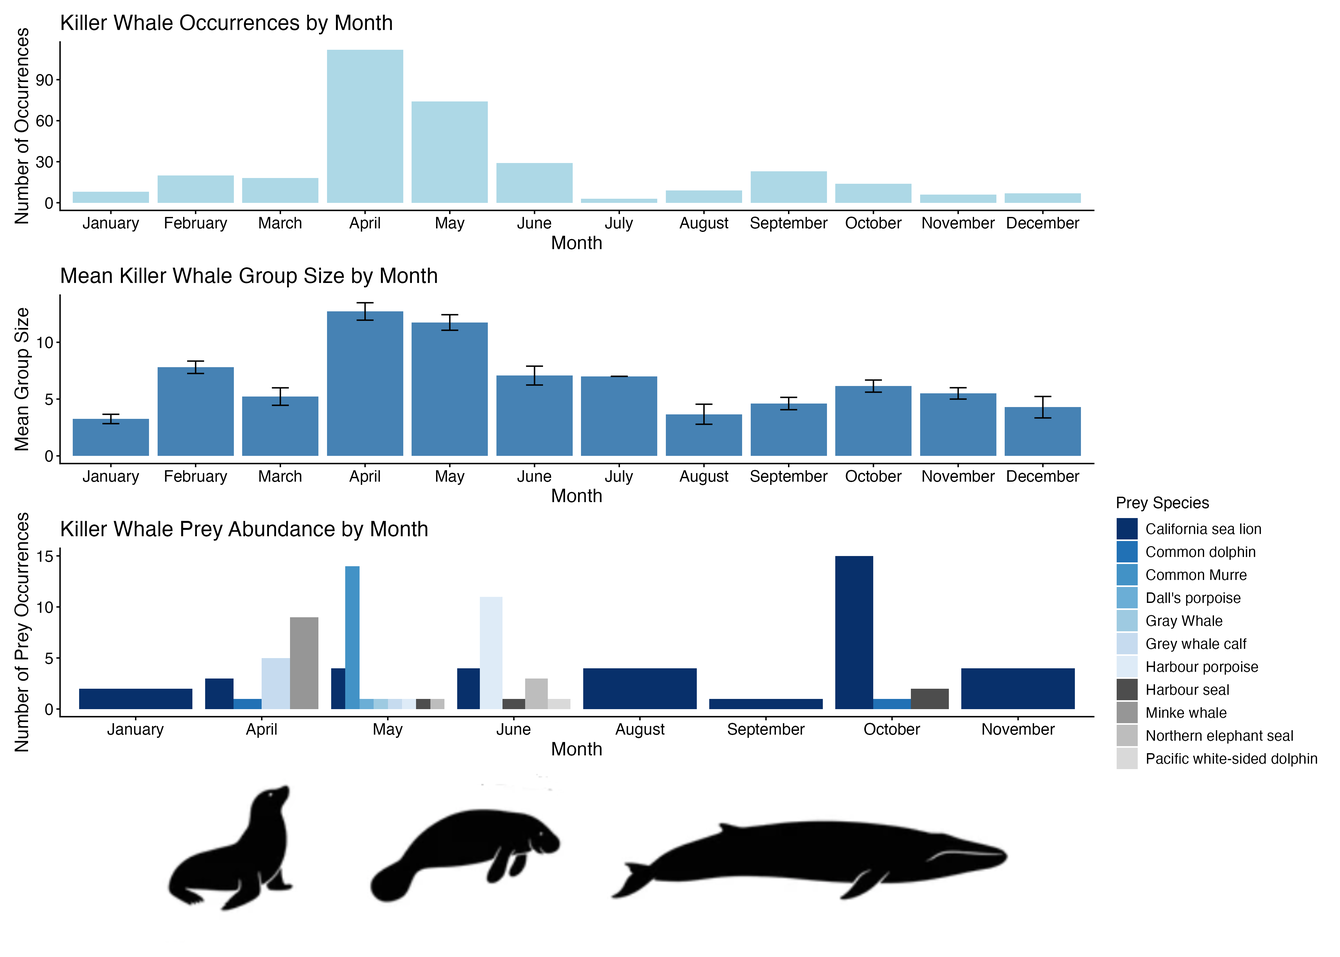
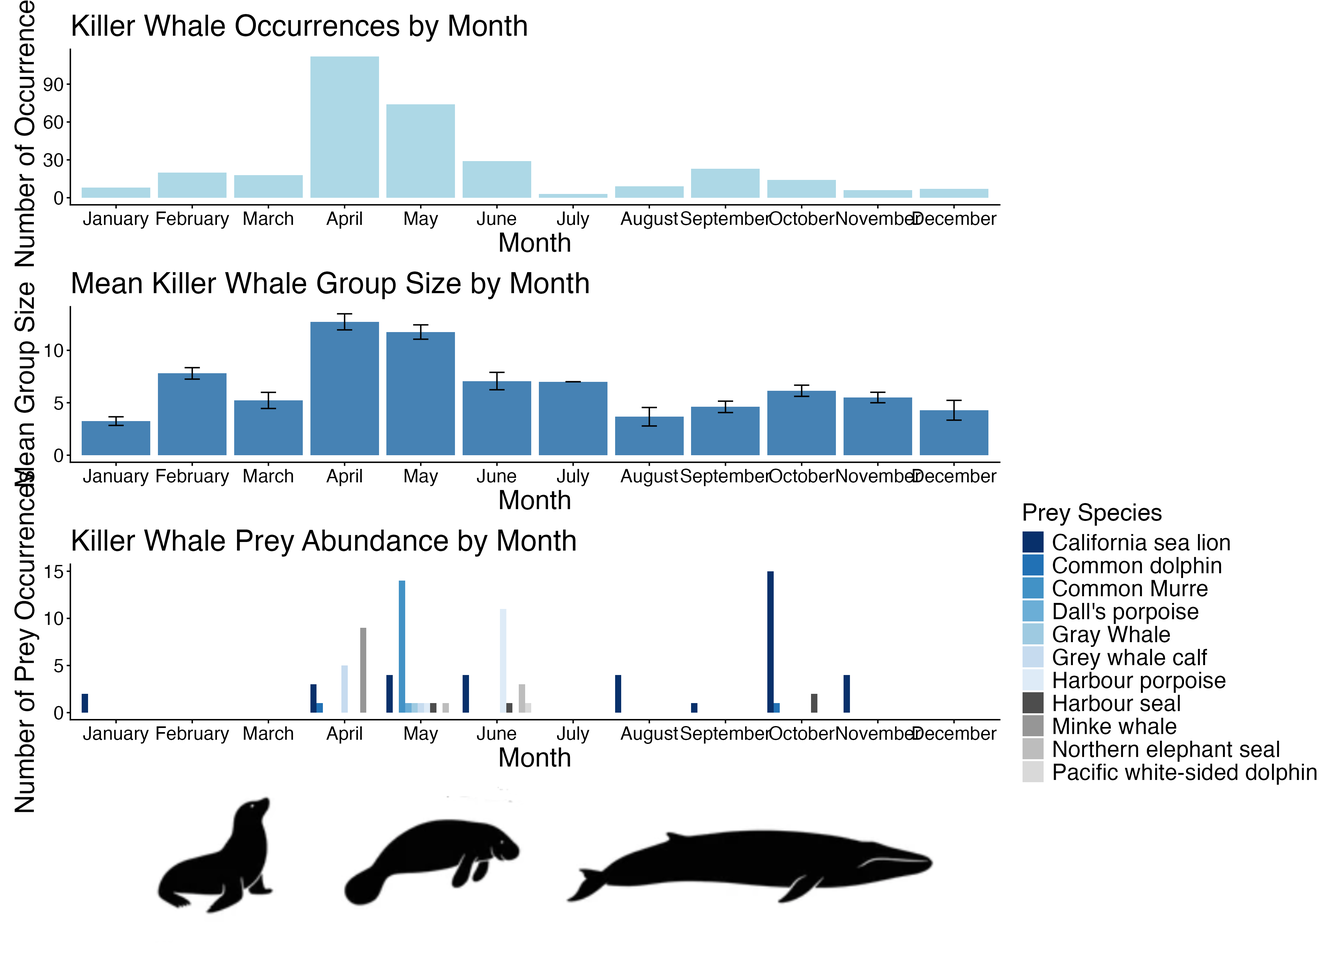
Fixed plots final output to look correct and not squished.

diff --git a/code/WS3.html b/code/WS3.html
@@ -196,17 +196,16 @@ $ Season     &lt;chr&gt; "Spring", "Spring", "Spring", "Spring", "Spring", "Spri
 </div>
 </div>
 <div class="cell">
-<div class="code-copy-outer-scaffold"><div class="sourceCode cell-code" id="cb13"><pre class="sourceCode r code-with-copy"><code class="sourceCode r"><span id="cb13-1"><a href="#cb13-1" aria-hidden="true" tabindex="-1"></a><span class="co">#add image to qmd</span></span>
-<span id="cb13-2"><a href="#cb13-2" aria-hidden="true" tabindex="-1"></a><span class="co">#| label: fig-original</span></span>
-<span id="cb13-3"><a href="#cb13-3" aria-hidden="true" tabindex="-1"></a><span class="co">#| fig-cap: "Original graph from the source study."</span></span>
-<span id="cb13-4"><a href="#cb13-4" aria-hidden="true" tabindex="-1"></a></span>
-<span id="cb13-5"><a href="#cb13-5" aria-hidden="true" tabindex="-1"></a>knitr<span class="sc">::</span><span class="fu">include_graphics</span>(</span>
-<span id="cb13-6"><a href="#cb13-6" aria-hidden="true" tabindex="-1"></a>  here<span class="sc">::</span><span class="fu">here</span>(<span class="st">"outputs"</span>, <span class="st">"figures"</span>, <span class="st">"Graph_From_Source.PNG"</span>)</span>
-<span id="cb13-7"><a href="#cb13-7" aria-hidden="true" tabindex="-1"></a>)</span></code></pre></div><button title="Copy to Clipboard" class="code-copy-button"><i class="bi"></i></button></div>
+<div class="code-copy-outer-scaffold"><div class="sourceCode cell-code" id="cb13"><pre class="sourceCode r code-with-copy"><code class="sourceCode r"><span id="cb13-1"><a href="#cb13-1" aria-hidden="true" tabindex="-1"></a>knitr<span class="sc">::</span><span class="fu">include_graphics</span>(<span class="st">"/Users/jess/Desktop/MB5370 - Techniques/Module2_info/R4MarineScience/code/Graph_From_Source.PNG"</span>)</span></code></pre></div><button title="Copy to Clipboard" class="code-copy-button"><i class="bi"></i></button></div>
 <div class="cell-output-display">
-<div>
-<figure class="figure">
-<p><img src="../outputs/figures/Graph_From_Source.PNG" class="img-fluid figure-img" width="840"></p>
+<div id="fig-original" class="quarto-float quarto-figure quarto-figure-center anchored">
+<figure class="quarto-float quarto-float-fig figure">
+<div aria-describedby="fig-original-caption-0ceaefa1-69ba-4598-a22c-09a6ac19f8ca">
+<img src="Graph_From_Source.PNG" class="img-fluid figure-img" style="width:80.0%">
+</div>
+<figcaption class="quarto-float-caption-bottom quarto-float-caption quarto-float-fig" id="fig-original-caption-0ceaefa1-69ba-4598-a22c-09a6ac19f8ca">
+Figure&nbsp;1: Original graph from the source study.
+</figcaption>
 </figure>
 </div>
 </div>
@@ -288,7 +287,7 @@ $ Season     &lt;chr&gt; "Spring", "Spring", "Spring", "Spring", "Spring", "Spri
 <div class="cell-output-display">
 <div>
 <figure class="figure">
-<p><img src="WS3_files/figure-html/unnamed-chunk-7-1.png" class="img-fluid figure-img" width="672"></p>
+<p><img src="WS3_files/figure-html/unnamed-chunk-6-1.png" class="img-fluid figure-img" width="672"></p>
 </figure>
 </div>
 </div>
@@ -339,7 +338,7 @@ $ Season     &lt;chr&gt; "Spring", "Spring", "Spring", "Spring", "Spring", "Spri
 <div class="cell-output-display">
 <div>
 <figure class="figure">
-<p><img src="WS3_files/figure-html/unnamed-chunk-8-1.png" class="img-fluid figure-img" width="672"></p>
+<p><img src="WS3_files/figure-html/unnamed-chunk-7-1.png" class="img-fluid figure-img" width="672"></p>
 </figure>
 </div>
 </div>
@@ -428,24 +427,32 @@ $ Season     &lt;chr&gt; "Spring", "Spring", "Spring", "Spring", "Spring", "Spri
 <span id="cb20-45"><a href="#cb20-45" aria-hidden="true" tabindex="-1"></a>  <span class="fu">summarise</span>(</span>
 <span id="cb20-46"><a href="#cb20-46" aria-hidden="true" tabindex="-1"></a>    <span class="at">occurrences =</span> <span class="fu">n</span>(),</span>
 <span id="cb20-47"><a href="#cb20-47" aria-hidden="true" tabindex="-1"></a>    <span class="at">.groups =</span> <span class="st">"drop"</span></span>
-<span id="cb20-48"><a href="#cb20-48" aria-hidden="true" tabindex="-1"></a>  )</span>
-<span id="cb20-49"><a href="#cb20-49" aria-hidden="true" tabindex="-1"></a></span>
-<span id="cb20-50"><a href="#cb20-50" aria-hidden="true" tabindex="-1"></a>prey_monthly</span></code></pre></div><button title="Copy to Clipboard" class="code-copy-button"><i class="bi"></i></button></div>
+<span id="cb20-48"><a href="#cb20-48" aria-hidden="true" tabindex="-1"></a>  ) <span class="sc">%&gt;%</span></span>
+<span id="cb20-49"><a href="#cb20-49" aria-hidden="true" tabindex="-1"></a>  <span class="fu">complete</span>(</span>
+<span id="cb20-50"><a href="#cb20-50" aria-hidden="true" tabindex="-1"></a>    <span class="at">Month_A =</span> month.name,</span>
+<span id="cb20-51"><a href="#cb20-51" aria-hidden="true" tabindex="-1"></a>    <span class="st">`</span><span class="at">Prey Species</span><span class="st">`</span>,</span>
+<span id="cb20-52"><a href="#cb20-52" aria-hidden="true" tabindex="-1"></a>    <span class="at">fill =</span> <span class="fu">list</span>(<span class="at">occurrences =</span> <span class="dv">0</span>)</span>
+<span id="cb20-53"><a href="#cb20-53" aria-hidden="true" tabindex="-1"></a>  ) <span class="sc">%&gt;%</span></span>
+<span id="cb20-54"><a href="#cb20-54" aria-hidden="true" tabindex="-1"></a>  <span class="fu">mutate</span>(</span>
+<span id="cb20-55"><a href="#cb20-55" aria-hidden="true" tabindex="-1"></a>    <span class="at">Month_A =</span> <span class="fu">factor</span>(Month_A, <span class="at">levels =</span> month.name)</span>
+<span id="cb20-56"><a href="#cb20-56" aria-hidden="true" tabindex="-1"></a>  )</span>
+<span id="cb20-57"><a href="#cb20-57" aria-hidden="true" tabindex="-1"></a></span>
+<span id="cb20-58"><a href="#cb20-58" aria-hidden="true" tabindex="-1"></a>prey_monthly</span></code></pre></div><button title="Copy to Clipboard" class="code-copy-button"><i class="bi"></i></button></div>
 <div class="cell-output cell-output-stdout">
-<pre><code># A tibble: 24 × 3
-   Month_A `Prey Species`      occurrences
-   &lt;ord&gt;   &lt;chr&gt;                     &lt;int&gt;
- 1 January California sea lion           2
- 2 April   California sea lion           3
- 3 April   Common dolphin                1
- 4 April   Grey whale calf               5
- 5 April   Minke whale                   9
- 6 May     California sea lion           4
- 7 May     Common Murre                 14
- 8 May     Dall's porpoise               1
- 9 May     Gray Whale                    1
-10 May     Grey whale calf               1
-# ℹ 14 more rows</code></pre>
+<pre><code># A tibble: 132 × 3
+   Month_A `Prey Species`         occurrences
+   &lt;fct&gt;   &lt;chr&gt;                        &lt;int&gt;
+ 1 April   California sea lion              3
+ 2 April   Common dolphin                   1
+ 3 April   Common Murre                     0
+ 4 April   Dall's porpoise                  0
+ 5 April   Gray Whale                       0
+ 6 April   Grey whale calf                  5
+ 7 April   Harbour porpoise                 0
+ 8 April   Harbour seal                     0
+ 9 April   Minke whale                      9
+10 April   Northern elephant seal           0
+# ℹ 122 more rows</code></pre>
 </div>
 </div>
 <div class="cell">
@@ -475,16 +482,16 @@ $ Season     &lt;chr&gt; "Spring", "Spring", "Spring", "Spring", "Spring", "Spri
 <span id="cb22-24"><a href="#cb22-24" aria-hidden="true" tabindex="-1"></a>  ) <span class="sc">+</span></span>
 <span id="cb22-25"><a href="#cb22-25" aria-hidden="true" tabindex="-1"></a>  <span class="fu">theme_classic</span>() <span class="sc">+</span></span>
 <span id="cb22-26"><a href="#cb22-26" aria-hidden="true" tabindex="-1"></a> <span class="fu">theme</span>(</span>
-<span id="cb22-27"><a href="#cb22-27" aria-hidden="true" tabindex="-1"></a>    <span class="at">axis.title =</span> <span class="fu">element_text</span>(<span class="at">size =</span> <span class="dv">14</span>),</span>
-<span id="cb22-28"><a href="#cb22-28" aria-hidden="true" tabindex="-1"></a>    <span class="at">axis.text =</span> <span class="fu">element_text</span>(<span class="at">size =</span> <span class="dv">12</span>),</span>
-<span id="cb22-29"><a href="#cb22-29" aria-hidden="true" tabindex="-1"></a>    <span class="at">legend.title =</span> <span class="fu">element_text</span>(<span class="at">size =</span> <span class="dv">12</span>),</span>
-<span id="cb22-30"><a href="#cb22-30" aria-hidden="true" tabindex="-1"></a>    <span class="at">legend.text =</span> <span class="fu">element_text</span>(<span class="at">size =</span> <span class="dv">11</span>),</span>
-<span id="cb22-31"><a href="#cb22-31" aria-hidden="true" tabindex="-1"></a>    <span class="at">plot.title =</span> <span class="fu">element_text</span>(<span class="at">size =</span> <span class="dv">16</span>)</span>
+<span id="cb22-27"><a href="#cb22-27" aria-hidden="true" tabindex="-1"></a>    <span class="at">axis.title =</span> <span class="fu">element_text</span>(<span class="at">size =</span> <span class="dv">20</span>),</span>
+<span id="cb22-28"><a href="#cb22-28" aria-hidden="true" tabindex="-1"></a>    <span class="at">axis.text =</span> <span class="fu">element_text</span>(<span class="at">size =</span> <span class="dv">14</span>),</span>
+<span id="cb22-29"><a href="#cb22-29" aria-hidden="true" tabindex="-1"></a>    <span class="at">legend.title =</span> <span class="fu">element_text</span>(<span class="at">size =</span> <span class="dv">18</span>),</span>
+<span id="cb22-30"><a href="#cb22-30" aria-hidden="true" tabindex="-1"></a>    <span class="at">legend.text =</span> <span class="fu">element_text</span>(<span class="at">size =</span> <span class="dv">17</span>),</span>
+<span id="cb22-31"><a href="#cb22-31" aria-hidden="true" tabindex="-1"></a>    <span class="at">plot.title =</span> <span class="fu">element_text</span>(<span class="at">size =</span> <span class="dv">22</span>)</span>
 <span id="cb22-32"><a href="#cb22-32" aria-hidden="true" tabindex="-1"></a>  )</span></code></pre></div><button title="Copy to Clipboard" class="code-copy-button"><i class="bi"></i></button></div>
 <div class="cell-output-display">
 <div>
 <figure class="figure">
-<p><img src="WS3_files/figure-html/unnamed-chunk-11-1.png" class="img-fluid figure-img" width="672"></p>
+<p><img src="WS3_files/figure-html/unnamed-chunk-10-1.png" class="img-fluid figure-img" width="672"></p>
 </figure>
 </div>
 </div>
@@ -507,11 +514,11 @@ $ Season     &lt;chr&gt; "Spring", "Spring", "Spring", "Spring", "Spring", "Spri
 <span id="cb24-8"><a href="#cb24-8" aria-hidden="true" tabindex="-1"></a>  ) <span class="sc">+</span></span>
 <span id="cb24-9"><a href="#cb24-9" aria-hidden="true" tabindex="-1"></a>  <span class="fu">theme_classic</span>() <span class="sc">+</span> </span>
 <span id="cb24-10"><a href="#cb24-10" aria-hidden="true" tabindex="-1"></a>   <span class="fu">theme</span>(</span>
-<span id="cb24-11"><a href="#cb24-11" aria-hidden="true" tabindex="-1"></a>    <span class="at">axis.title =</span> <span class="fu">element_text</span>(<span class="at">size =</span> <span class="dv">14</span>),</span>
-<span id="cb24-12"><a href="#cb24-12" aria-hidden="true" tabindex="-1"></a>    <span class="at">axis.text =</span> <span class="fu">element_text</span>(<span class="at">size =</span> <span class="dv">12</span>),</span>
-<span id="cb24-13"><a href="#cb24-13" aria-hidden="true" tabindex="-1"></a>    <span class="at">legend.title =</span> <span class="fu">element_text</span>(<span class="at">size =</span> <span class="dv">12</span>),</span>
-<span id="cb24-14"><a href="#cb24-14" aria-hidden="true" tabindex="-1"></a>    <span class="at">legend.text =</span> <span class="fu">element_text</span>(<span class="at">size =</span> <span class="dv">11</span>),</span>
-<span id="cb24-15"><a href="#cb24-15" aria-hidden="true" tabindex="-1"></a>    <span class="at">plot.title =</span> <span class="fu">element_text</span>(<span class="at">size =</span> <span class="dv">16</span>)</span>
+<span id="cb24-11"><a href="#cb24-11" aria-hidden="true" tabindex="-1"></a>    <span class="at">axis.title =</span> <span class="fu">element_text</span>(<span class="at">size =</span> <span class="dv">20</span>),</span>
+<span id="cb24-12"><a href="#cb24-12" aria-hidden="true" tabindex="-1"></a>    <span class="at">axis.text =</span> <span class="fu">element_text</span>(<span class="at">size =</span> <span class="dv">14</span>),</span>
+<span id="cb24-13"><a href="#cb24-13" aria-hidden="true" tabindex="-1"></a>    <span class="at">legend.title =</span> <span class="fu">element_text</span>(<span class="at">size =</span> <span class="dv">18</span>),</span>
+<span id="cb24-14"><a href="#cb24-14" aria-hidden="true" tabindex="-1"></a>    <span class="at">legend.text =</span> <span class="fu">element_text</span>(<span class="at">size =</span> <span class="dv">17</span>),</span>
+<span id="cb24-15"><a href="#cb24-15" aria-hidden="true" tabindex="-1"></a>    <span class="at">plot.title =</span> <span class="fu">element_text</span>(<span class="at">size =</span> <span class="dv">22</span>)</span>
 <span id="cb24-16"><a href="#cb24-16" aria-hidden="true" tabindex="-1"></a>  )</span>
 <span id="cb24-17"><a href="#cb24-17" aria-hidden="true" tabindex="-1"></a></span>
 <span id="cb24-18"><a href="#cb24-18" aria-hidden="true" tabindex="-1"></a>plot2 <span class="ot">&lt;-</span> <span class="fu">ggplot</span>(monthly_summary, <span class="fu">aes</span>(<span class="at">x =</span> Month_A, <span class="at">y =</span> mean_group_size)) <span class="sc">+</span></span>
@@ -530,11 +537,11 @@ $ Season     &lt;chr&gt; "Spring", "Spring", "Spring", "Spring", "Spring", "Spri
 <span id="cb24-31"><a href="#cb24-31" aria-hidden="true" tabindex="-1"></a>  ) <span class="sc">+</span></span>
 <span id="cb24-32"><a href="#cb24-32" aria-hidden="true" tabindex="-1"></a>  <span class="fu">theme_classic</span>() <span class="sc">+</span> </span>
 <span id="cb24-33"><a href="#cb24-33" aria-hidden="true" tabindex="-1"></a>   <span class="fu">theme</span>(</span>
-<span id="cb24-34"><a href="#cb24-34" aria-hidden="true" tabindex="-1"></a>    <span class="at">axis.title =</span> <span class="fu">element_text</span>(<span class="at">size =</span> <span class="dv">14</span>),</span>
-<span id="cb24-35"><a href="#cb24-35" aria-hidden="true" tabindex="-1"></a>    <span class="at">axis.text =</span> <span class="fu">element_text</span>(<span class="at">size =</span> <span class="dv">12</span>),</span>
-<span id="cb24-36"><a href="#cb24-36" aria-hidden="true" tabindex="-1"></a>    <span class="at">legend.title =</span> <span class="fu">element_text</span>(<span class="at">size =</span> <span class="dv">12</span>),</span>
-<span id="cb24-37"><a href="#cb24-37" aria-hidden="true" tabindex="-1"></a>    <span class="at">legend.text =</span> <span class="fu">element_text</span>(<span class="at">size =</span> <span class="dv">11</span>),</span>
-<span id="cb24-38"><a href="#cb24-38" aria-hidden="true" tabindex="-1"></a>    <span class="at">plot.title =</span> <span class="fu">element_text</span>(<span class="at">size =</span> <span class="dv">16</span>)</span>
+<span id="cb24-34"><a href="#cb24-34" aria-hidden="true" tabindex="-1"></a>     <span class="at">axis.title =</span> <span class="fu">element_text</span>(<span class="at">size =</span> <span class="dv">20</span>),</span>
+<span id="cb24-35"><a href="#cb24-35" aria-hidden="true" tabindex="-1"></a>    <span class="at">axis.text =</span> <span class="fu">element_text</span>(<span class="at">size =</span> <span class="dv">14</span>),</span>
+<span id="cb24-36"><a href="#cb24-36" aria-hidden="true" tabindex="-1"></a>    <span class="at">legend.title =</span> <span class="fu">element_text</span>(<span class="at">size =</span> <span class="dv">18</span>),</span>
+<span id="cb24-37"><a href="#cb24-37" aria-hidden="true" tabindex="-1"></a>    <span class="at">legend.text =</span> <span class="fu">element_text</span>(<span class="at">size =</span> <span class="dv">17</span>),</span>
+<span id="cb24-38"><a href="#cb24-38" aria-hidden="true" tabindex="-1"></a>    <span class="at">plot.title =</span> <span class="fu">element_text</span>(<span class="at">size =</span> <span class="dv">22</span>)</span>
 <span id="cb24-39"><a href="#cb24-39" aria-hidden="true" tabindex="-1"></a>  )</span>
 <span id="cb24-40"><a href="#cb24-40" aria-hidden="true" tabindex="-1"></a></span>
 <span id="cb24-41"><a href="#cb24-41" aria-hidden="true" tabindex="-1"></a>plot3 <span class="ot">&lt;-</span> <span class="fu">ggplot</span>(prey_monthly, <span class="fu">aes</span>(<span class="at">x =</span> Month_A, <span class="at">y =</span> occurrences, <span class="at">fill =</span> <span class="st">`</span><span class="at">Prey Species</span><span class="st">`</span>)) <span class="sc">+</span></span>
@@ -562,41 +569,43 @@ $ Season     &lt;chr&gt; "Spring", "Spring", "Spring", "Spring", "Spring", "Spri
 <span id="cb24-63"><a href="#cb24-63" aria-hidden="true" tabindex="-1"></a>  ) <span class="sc">+</span></span>
 <span id="cb24-64"><a href="#cb24-64" aria-hidden="true" tabindex="-1"></a>  <span class="fu">theme_classic</span>() <span class="sc">+</span></span>
 <span id="cb24-65"><a href="#cb24-65" aria-hidden="true" tabindex="-1"></a>   <span class="fu">theme</span>(</span>
-<span id="cb24-66"><a href="#cb24-66" aria-hidden="true" tabindex="-1"></a>    <span class="at">axis.title =</span> <span class="fu">element_text</span>(<span class="at">size =</span> <span class="dv">14</span>),</span>
-<span id="cb24-67"><a href="#cb24-67" aria-hidden="true" tabindex="-1"></a>    <span class="at">axis.text =</span> <span class="fu">element_text</span>(<span class="at">size =</span> <span class="dv">12</span>),</span>
-<span id="cb24-68"><a href="#cb24-68" aria-hidden="true" tabindex="-1"></a>    <span class="at">legend.title =</span> <span class="fu">element_text</span>(<span class="at">size =</span> <span class="dv">12</span>),</span>
-<span id="cb24-69"><a href="#cb24-69" aria-hidden="true" tabindex="-1"></a>    <span class="at">legend.text =</span> <span class="fu">element_text</span>(<span class="at">size =</span> <span class="dv">11</span>),</span>
-<span id="cb24-70"><a href="#cb24-70" aria-hidden="true" tabindex="-1"></a>    <span class="at">plot.title =</span> <span class="fu">element_text</span>(<span class="at">size =</span> <span class="dv">16</span>)</span>
+<span id="cb24-66"><a href="#cb24-66" aria-hidden="true" tabindex="-1"></a>    <span class="at">axis.title =</span> <span class="fu">element_text</span>(<span class="at">size =</span> <span class="dv">20</span>),</span>
+<span id="cb24-67"><a href="#cb24-67" aria-hidden="true" tabindex="-1"></a>    <span class="at">axis.text =</span> <span class="fu">element_text</span>(<span class="at">size =</span> <span class="dv">14</span>),</span>
+<span id="cb24-68"><a href="#cb24-68" aria-hidden="true" tabindex="-1"></a>    <span class="at">legend.title =</span> <span class="fu">element_text</span>(<span class="at">size =</span> <span class="dv">18</span>),</span>
+<span id="cb24-69"><a href="#cb24-69" aria-hidden="true" tabindex="-1"></a>    <span class="at">legend.text =</span> <span class="fu">element_text</span>(<span class="at">size =</span> <span class="dv">17</span>),</span>
+<span id="cb24-70"><a href="#cb24-70" aria-hidden="true" tabindex="-1"></a>    <span class="at">plot.title =</span> <span class="fu">element_text</span>(<span class="at">size =</span> <span class="dv">22</span>)</span>
 <span id="cb24-71"><a href="#cb24-71" aria-hidden="true" tabindex="-1"></a>  )</span>
 <span id="cb24-72"><a href="#cb24-72" aria-hidden="true" tabindex="-1"></a></span>
 <span id="cb24-73"><a href="#cb24-73" aria-hidden="true" tabindex="-1"></a>plot4 <span class="ot">&lt;-</span> <span class="fu">wrap_elements</span>(prey_image)</span></code></pre></div><button title="Copy to Clipboard" class="code-copy-button"><i class="bi"></i></button></div>
 </div>
 <div class="cell">
-<div class="code-copy-outer-scaffold"><div class="sourceCode cell-code" id="cb25"><pre class="sourceCode r code-with-copy"><code class="sourceCode r"><span id="cb25-1"><a href="#cb25-1" aria-hidden="true" tabindex="-1"></a><span class="co"># create figure caption</span></span>
-<span id="cb25-2"><a href="#cb25-2" aria-hidden="true" tabindex="-1"></a><span class="co">#| label: fig-workshop3</span></span>
-<span id="cb25-3"><a href="#cb25-3" aria-hidden="true" tabindex="-1"></a><span class="co">#| fig-cap: " Killer whale occurrences, mean group size, and prey abundance by month. The top left panel shows the number of killer whale occurrences by month. The top right panel shows the mean group size of killer whales by month with standard error bars. The bottom left panel shows the number of prey occurrences by month for each prey species."</span></span>
-<span id="cb25-4"><a href="#cb25-4" aria-hidden="true" tabindex="-1"></a><span class="co">#combine plots</span></span>
-<span id="cb25-5"><a href="#cb25-5" aria-hidden="true" tabindex="-1"></a>plot1 <span class="sc">/</span> plot2 <span class="sc">/</span> plot3 <span class="sc">/</span> plot4</span></code></pre></div><button title="Copy to Clipboard" class="code-copy-button"><i class="bi"></i></button></div>
+<div class="code-copy-outer-scaffold"><div class="sourceCode cell-code" id="cb25"><pre class="sourceCode r code-with-copy"><code class="sourceCode r"><span id="cb25-1"><a href="#cb25-1" aria-hidden="true" tabindex="-1"></a><span class="co">#combine plots</span></span>
+<span id="cb25-2"><a href="#cb25-2" aria-hidden="true" tabindex="-1"></a>final_plot <span class="ot">&lt;-</span> plot1 <span class="sc">/</span> plot2 <span class="sc">/</span> plot3 <span class="sc">/</span> plot4</span>
+<span id="cb25-3"><a href="#cb25-3" aria-hidden="true" tabindex="-1"></a></span>
+<span id="cb25-4"><a href="#cb25-4" aria-hidden="true" tabindex="-1"></a>final_plot</span></code></pre></div><button title="Copy to Clipboard" class="code-copy-button"><i class="bi"></i></button></div>
 <div class="cell-output-display">
-<div>
-<figure class="figure">
-<p><img src="WS3_files/figure-html/unnamed-chunk-14-1.png" class="img-fluid figure-img" width="672"></p>
+<div id="fig-workshop3" class="quarto-float quarto-figure quarto-figure-center anchored">
+<figure class="quarto-float quarto-float-fig figure">
+<div aria-describedby="fig-workshop3-caption-0ceaefa1-69ba-4598-a22c-09a6ac19f8ca">
+<img src="WS3_files/figure-html/fig-workshop3-1.png" class="img-fluid figure-img" style="width:100.0%">
+</div>
+<figcaption class="quarto-float-caption-bottom quarto-float-caption quarto-float-fig" id="fig-workshop3-caption-0ceaefa1-69ba-4598-a22c-09a6ac19f8ca">
+Figure&nbsp;2: Killer whale occurrences, mean group size, and prey abundance by month. The top panel shows the number of killer whale occurrences by month. The middle panel shows the mean group size of killer whales by month with standard error bars. The bottom panel shows the number of prey occurrences by month for each prey species.
+</figcaption>
 </figure>
 </div>
 </div>
 </div>
 <div class="cell">
 <div class="code-copy-outer-scaffold"><div class="sourceCode cell-code" id="cb26"><pre class="sourceCode r code-with-copy"><code class="sourceCode r"><span id="cb26-1"><a href="#cb26-1" aria-hidden="true" tabindex="-1"></a><span class="co">#save final image</span></span>
-<span id="cb26-2"><a href="#cb26-2" aria-hidden="true" tabindex="-1"></a>final_plot <span class="ot">&lt;-</span> plot1 <span class="sc">/</span> plot2 <span class="sc">/</span> plot3 <span class="sc">/</span> plot4</span>
-<span id="cb26-3"><a href="#cb26-3" aria-hidden="true" tabindex="-1"></a></span>
-<span id="cb26-4"><a href="#cb26-4" aria-hidden="true" tabindex="-1"></a><span class="fu">ggsave</span>(</span>
-<span id="cb26-5"><a href="#cb26-5" aria-hidden="true" tabindex="-1"></a>  <span class="at">filename =</span> here<span class="sc">::</span><span class="fu">here</span>(<span class="st">"docs"</span>, <span class="st">"Workshop3_Final_Plot.png"</span>),</span>
-<span id="cb26-6"><a href="#cb26-6" aria-hidden="true" tabindex="-1"></a>  <span class="at">plot =</span> final_plot,</span>
-<span id="cb26-7"><a href="#cb26-7" aria-hidden="true" tabindex="-1"></a>  <span class="at">width =</span> <span class="dv">14</span>,</span>
-<span id="cb26-8"><a href="#cb26-8" aria-hidden="true" tabindex="-1"></a>  <span class="at">height =</span> <span class="dv">10</span>,</span>
-<span id="cb26-9"><a href="#cb26-9" aria-hidden="true" tabindex="-1"></a>  <span class="at">units =</span> <span class="st">"in"</span>,</span>
-<span id="cb26-10"><a href="#cb26-10" aria-hidden="true" tabindex="-1"></a>  <span class="at">dpi =</span> <span class="dv">300</span></span>
-<span id="cb26-11"><a href="#cb26-11" aria-hidden="true" tabindex="-1"></a>)</span></code></pre></div><button title="Copy to Clipboard" class="code-copy-button"><i class="bi"></i></button></div>
+<span id="cb26-2"><a href="#cb26-2" aria-hidden="true" tabindex="-1"></a><span class="fu">ggsave</span>(</span>
+<span id="cb26-3"><a href="#cb26-3" aria-hidden="true" tabindex="-1"></a>  <span class="at">filename =</span> here<span class="sc">::</span><span class="fu">here</span>(<span class="st">"docs"</span>, <span class="st">"Workshop3_Final_Plot.png"</span>),</span>
+<span id="cb26-4"><a href="#cb26-4" aria-hidden="true" tabindex="-1"></a>  <span class="at">plot =</span> final_plot,</span>
+<span id="cb26-5"><a href="#cb26-5" aria-hidden="true" tabindex="-1"></a>  <span class="at">width =</span> <span class="dv">14</span>,</span>
+<span id="cb26-6"><a href="#cb26-6" aria-hidden="true" tabindex="-1"></a>  <span class="at">height =</span> <span class="dv">10</span>,</span>
+<span id="cb26-7"><a href="#cb26-7" aria-hidden="true" tabindex="-1"></a>  <span class="at">units =</span> <span class="st">"in"</span>,</span>
+<span id="cb26-8"><a href="#cb26-8" aria-hidden="true" tabindex="-1"></a>  <span class="at">dpi =</span> <span class="dv">300</span></span>
+<span id="cb26-9"><a href="#cb26-9" aria-hidden="true" tabindex="-1"></a>)</span></code></pre></div><button title="Copy to Clipboard" class="code-copy-button"><i class="bi"></i></button></div>
 </div>
 
 </main>
